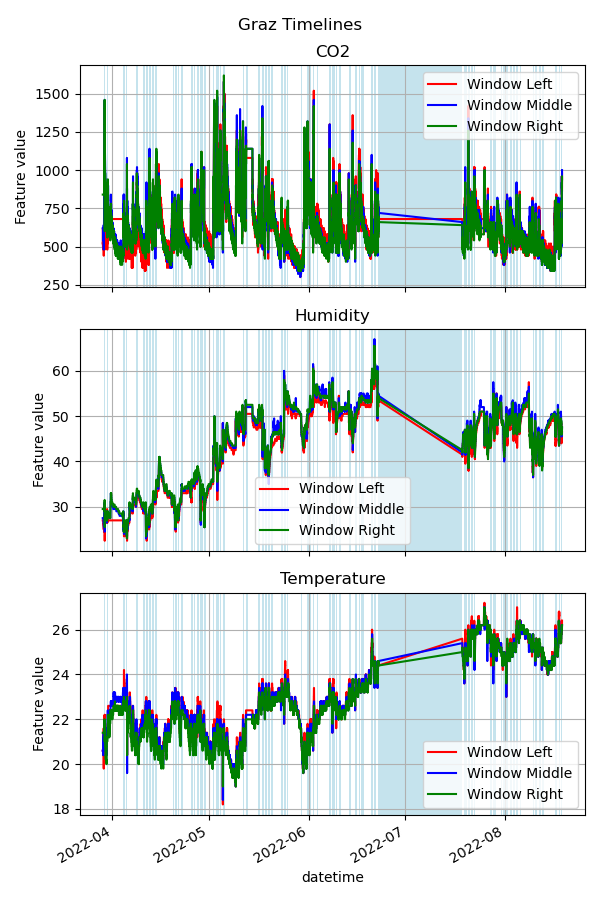
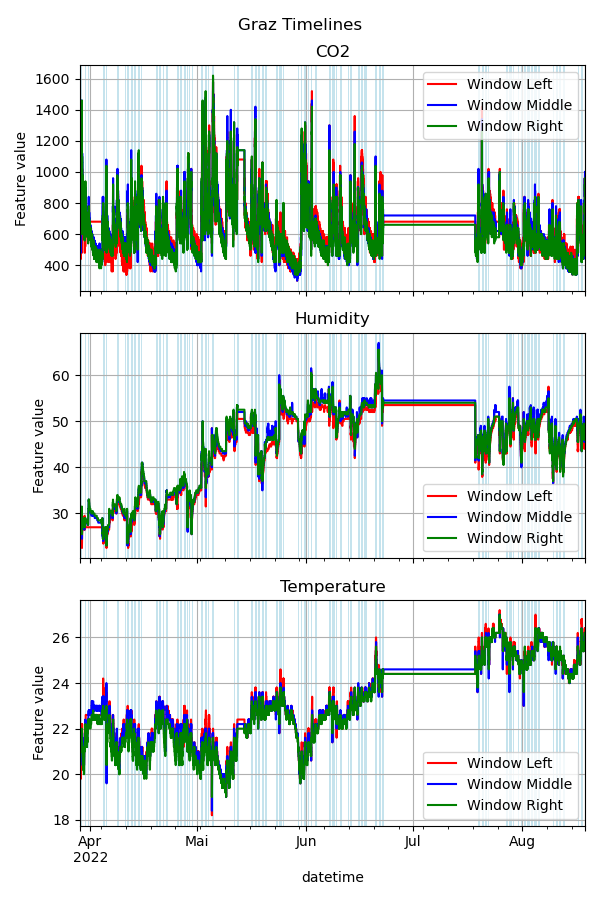
finish density plots

diff --git a/analyse_data/density_functions/density_functions.py b/analyse_data/density_functions/density_functions.py
@@ -10,6 +10,14 @@ from get_data import load_dataset
 
 
 def plot_probability_density_function(location):
+    if location in ['Australia', 'Denmark']:
+        pdf_with_rooms(location)
+    elif location == 'Graz':
+        pdf_graz(location)
+    else:
+        pdf_without_rooms(location)
+
+def pdf_without_rooms(location):
     X, y = load_dataset(location, split_data=False, data_cleaning=False)
 
     columns = X.select_dtypes(exclude=['category', 'string', 'object']).columns
@@ -20,7 +28,6 @@ def plot_probability_density_function(location):
     }
 
     fig, axes = plt.subplots(1, len(columns), figsize=(8, 5))
-    #fig.subplots_adjust(hspace=0.5)
 
     for it, column in enumerate(columns):
         ax = axes[it]
@@ -28,6 +35,70 @@ def plot_probability_density_function(location):
         X[column].loc[y['Occupancy']==0].plot.kde(ax=ax, label='Not Occupied', color=colormap[column], alpha=0.7, style=['--'])
         ax.set_title(column)
         ax.set_xlabel('Feature Value')
+        ax.set_xlim(left=X[column].min(), right=X[column].max())
+        ax.grid()
+        ax.legend(loc='upper right')
+    plt.suptitle(f'Probability Density Functions of the {location} dataset')
+    plt.tight_layout()
+
+    plt.savefig(f'{SAVE_DIR}pdf_{location}.png')
+    plt.show()
+
+def pdf_graz(location):
+    features = [
+        'CO2',
+        'Humidity',
+        'Temperature'
+        ]
+
+    X, y = load_dataset(location, split_data=False, data_cleaning=False)
+
+    columns = X.select_dtypes(exclude=['category', 'string', 'object']).columns
+
+    fig, axes = plt.subplots(1, len(features), figsize=(10, 5))
+
+    for it, column in enumerate(features):
+        ax = axes[it]
+        X[column + ' (WL)'].loc[y['Occupancy']==1].plot.kde(ax=ax, label='WL', color='red', style=['-'])
+        X[column + ' (WL)'].loc[y['Occupancy']==0].plot.kde(ax=ax, label='_nolegend_', color='red', alpha=0.7, style=['--'])
+        X[column + ' (WM)'].loc[y['Occupancy']==1].plot.kde(ax=ax, label='WM', color='blue', style=['-'])
+        X[column + ' (WM)'].loc[y['Occupancy']==0].plot.kde(ax=ax, label='_nolegend_', color='blue', alpha=0.7, style=['--'])
+        X[column + ' (WR)'].loc[y['Occupancy']==1].plot.kde(ax=ax, label='WR', color='green', style=['-'])
+        X[column + ' (WR)'].loc[y['Occupancy']==0].plot.kde(ax=ax, label='_nolegend_', color='green', alpha=0.7, style=['--'])
+        ax.set_title(column)
+        ax.set_xlabel('Feature Value')
+        #ax.set_xlim(left=X[column].min(), right=X[column].max())
+        ax.grid()
+        ax.legend(loc='upper right')
+    plt.suptitle(f'Probability Density Functions of the {location} dataset')
+    plt.tight_layout()
+
+    plt.savefig(f'{SAVE_DIR}pdf_{location}.png')
+    plt.show()
+
+def pdf_with_rooms(location):
+    X, y = load_dataset(location, split_data=False, data_cleaning=False)
+
+    columns = X.select_dtypes(exclude=['category', 'string', 'object']).columns
+
+    colors = [
+        'gray', 'indianred', 'blue', 'turquoise', 'red', 'sienna',
+        'olive', 'yellow', 'forestgreen', 'lime', 'cyan', 'gold',
+        'orange', 'navy', 'violet', 'darkorchid', 'magenta', 'greenyellow'
+        ]
+
+    fig, axes = plt.subplots(1, len(columns), figsize=(8, 5))
+
+    for it, column in enumerate(columns):
+        ax = axes[it]
+        for room_id in range(1, len(X['Room_ID'].unique())+1):
+            room_data_X = X.loc[X['Room_ID'] == room_id]
+            room_data_y = y.loc[X['Room_ID'] == room_id]
+            room_data_X[column].loc[room_data_y['Occupancy']==1].plot.kde(ax=ax, label=room_id, color=colors[room_id-1], style=['-'])
+            room_data_X[column].loc[room_data_y['Occupancy']==0].plot.kde(ax=ax, label='_nolegend_', color=colors[room_id-1], alpha=0.7, style=['--'])
+        ax.set_title(column)
+        ax.set_xlabel('Feature Value')
+        ax.set_xlim(left=X[column].min(), right=X[column].max())
         ax.grid()
         ax.legend(loc='upper right')
     plt.suptitle(f'Probability Density Functions of the {location} dataset')

diff --git a/models/embedding/embedding.py b/models/embedding/embedding.py
@@ -65,15 +65,15 @@ def run(
     for run in range(parameters['runs']):
         print('Run: ' + str(run + 1) + ', Dataset: ' + parameters['dataset'] + ', Model: ' + parameters['model_name'])
         
-        acc_train, acc_test_1, acc_test_2, acc_test_combined, model = run_model(X_train, X_test_list, y_train, y_test_list, parameters['batch_size'], parameters['epochs'], models[parameters['model_name']], encoders)
+        acc_train, acc_test_list, model = run_model(X_train, X_test_list, y_train, y_test_list, parameters['batch_size'], parameters['epochs'], models[parameters['model_name']], encoders)
         
         trained_models.append(model)
         scores_train.append(acc_train)
-        scores_test_1.append(acc_test_1)
-        scores_test_2.append(acc_test_2)
-        scores_test_combined.append(acc_test_combined)
+        scores_test_1.append(acc_test_list[0])
+        #scores_test_2.append(acc_test_2)
+        #scores_test_combined.append(acc_test_combined)
 
-    summarize_results(scores_train, scores_test_1, scores_test_2, scores_test_combined, parameters)#, suffix='_+'+str(historical_co2)+'min')
+    summarize_results(scores_train, [scores_test_1], parameters)#, suffix='_+'+str(historical_co2)+'min')
     
     for cat_var in encoders.keys():
         plot_embedding(trained_models, parameters['dataset'], encoders, cat_var, scores_test_1, parameters['model_name'])        
@@ -121,7 +121,7 @@ def run_model(X_train, X_test_list, y_train, y_test_list, batch_size, epochs, mo
     for y_test, y_pred_test in zip(y_test_list, y_pred_test_list):
         acc_test_list.append(BinaryAccuracy()(y_test, y_pred_test))
 
-    return acc_train, acc_test_list[0], acc_test_list[1], acc_test_list[2], model # TODO change
+    return acc_train, acc_test_list, model
 
 def plot_embedding(models, dataset, encoders, category, scores_test_1, model_name):
     # Find best and worst model

diff --git a/get_data.py b/get_data.py
@@ -75,7 +75,7 @@ def load_dataset(
         print(f'input: {X_train.shape[-1]} features ({X_train.columns.tolist()}).')
 
     elif dataset == 'Graz':
-        data = load_dataset_graz()
+        data = load_dataset_graz(data_cleaning)
 
         # TODO historical CO2
 
@@ -86,8 +86,15 @@ def load_dataset(
 
         if not split_data:
             return X, y
+        elif split_data == 'Seasonal':
+            raise Exception('Seasonal data split not possible with Graz dataset')
 
-        X_train, X_test, y_train, y_test = train_test_split(X, y, test_size=0.25, shuffle=True)
+        train_data_mask = X.index < pd.Timestamp('2022-07-18 16:10:00')
+        X_train = X[train_data_mask]
+        X_test = X[~train_data_mask]
+        y_train = y[train_data_mask]
+        y_test = y[~train_data_mask]
+
         X_test_list = [X_test]
         y_test_list = [y_test]
 
@@ -305,11 +312,17 @@ def load_dataset_graz(data_cleaning=True):
 
     if data_cleaning:
         # Remove faulty data
-        time_windows_to_exclude = [
-            slice(pd.Timestamp('2022-06-22 15:45:00'), pd.Timestamp('2022-07-18 16:05:00'))
+        faulty = [
+            slice('2022-03-29 00:05:00', '2022-03-29 13:00:00'),
+            slice('2022-03-30 15:25:00', '2022-04-04 13:35:00'),
+            slice('2022-05-12 12:35:00', '2022-05-14 11:55:00'),
+            slice('2022-06-22 15:45:00', '2022-07-18 16:05:00'),
+            slice('2022-07-24 09:40:00', '2022-07-25 09:20:00'),
+            slice('2022-07-26 04:05:00', '2022-07-26 10:25:00'),
+            slice('2022-07-26 17:30:00', '2022-07-27 05:35:00')
         ]
 
-        for time_window in time_windows_to_exclude:
+        for time_window in faulty:
             dataset = dataset.drop(dataset.loc[time_window].index)
 
     # Convert colums to numeric values

diff --git a/run_model.py b/run_model.py
@@ -119,7 +119,6 @@ brick_australia_CNN = {
     'windowing': False,
     'runs': 10,
     'batch_size': 32,
-    'code_size': 6
 }
 brick_australia_LSTM = {
     'model_name': 'LSTM',
@@ -132,7 +131,6 @@ brick_australia_LSTM = {
     'windowing': False,
     'runs': 10,
     'batch_size': 32,
-    'code_size': 6
 }
 brick_australia_autoencoder = {
     'model_name': 'autoencoder',
@@ -158,7 +156,6 @@ brick_denmark_CNN = {
     'windowing': False,
     'runs': 10,
     'batch_size': 32,
-    'code_size': 6
 }
 brick_denmark_LSTM = {
     'model_name': 'LSTM',
@@ -171,7 +168,6 @@ brick_denmark_LSTM = {
     'windowing': False,
     'runs': 10,
     'batch_size': 32,
-    'code_size': 6
 }
 brick_denmark_autoencoder = {
     'model_name': 'autoencoder',
@@ -197,7 +193,6 @@ brick_italy_CNN = {
     'windowing': False,
     'runs': 10,
     'batch_size': 32,
-    'code_size': 6
 }
 brick_italy_LSTM = {
     'model_name': 'LSTM',
@@ -210,7 +205,6 @@ brick_italy_LSTM = {
     'windowing': False,
     'runs': 10,
     'batch_size': 32,
-    'code_size': 6
 }
 brick_italy_autoencoder = {
     'model_name': 'autoencoder',
@@ -230,13 +224,12 @@ brick_australia_test_time2vec = {
     'dataset': 'Australia',
     'feature_set': 'full',
     'split_data': True,
-    'epochs': 200,
+    'epochs': 1,
     'historical_co2': False,
     'embedding': True,
     'windowing': True,
     'runs': 1,
     'batch_size': 32,
-    'code_size': 6
 }
 
 if __name__ == '__main__':

diff --git a/analyse_data/analyse_data.py b/analyse_data/analyse_data.py
@@ -26,7 +26,7 @@ def main():
     Function, with which the data should be analysed
     """
 
-    location = 'Australia'
+    location = 'Graz'
 
     #describe_dataset(location)
     #plot_correlation()
@@ -109,7 +109,7 @@ def plot_timeline(dataset, data_cleaning=True):
             'Temperature'
         ]
 
-        fig, ax = plt.subplots(len(features), 1, figsize=(6, 3*len(features)))
+        fig, ax = plt.subplots(len(features), 1, figsize=(6, 3*len(features)), sharex=True)
 
         for row, column in enumerate(features):
             ax[row].set_title(column)
